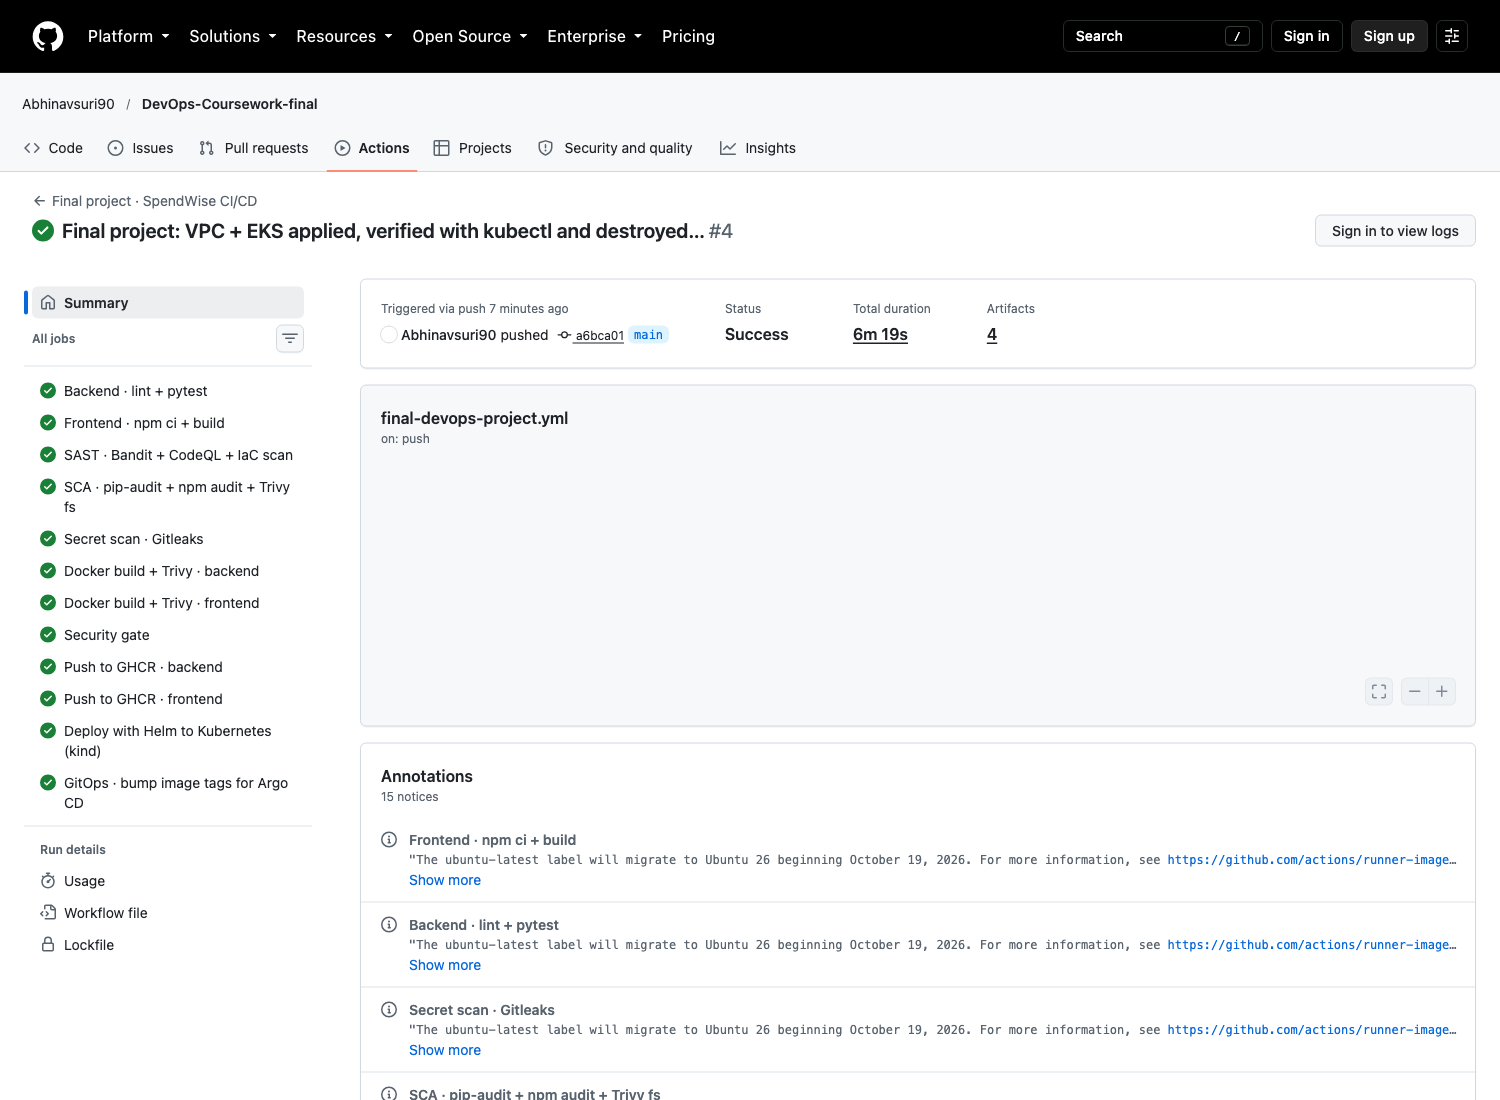
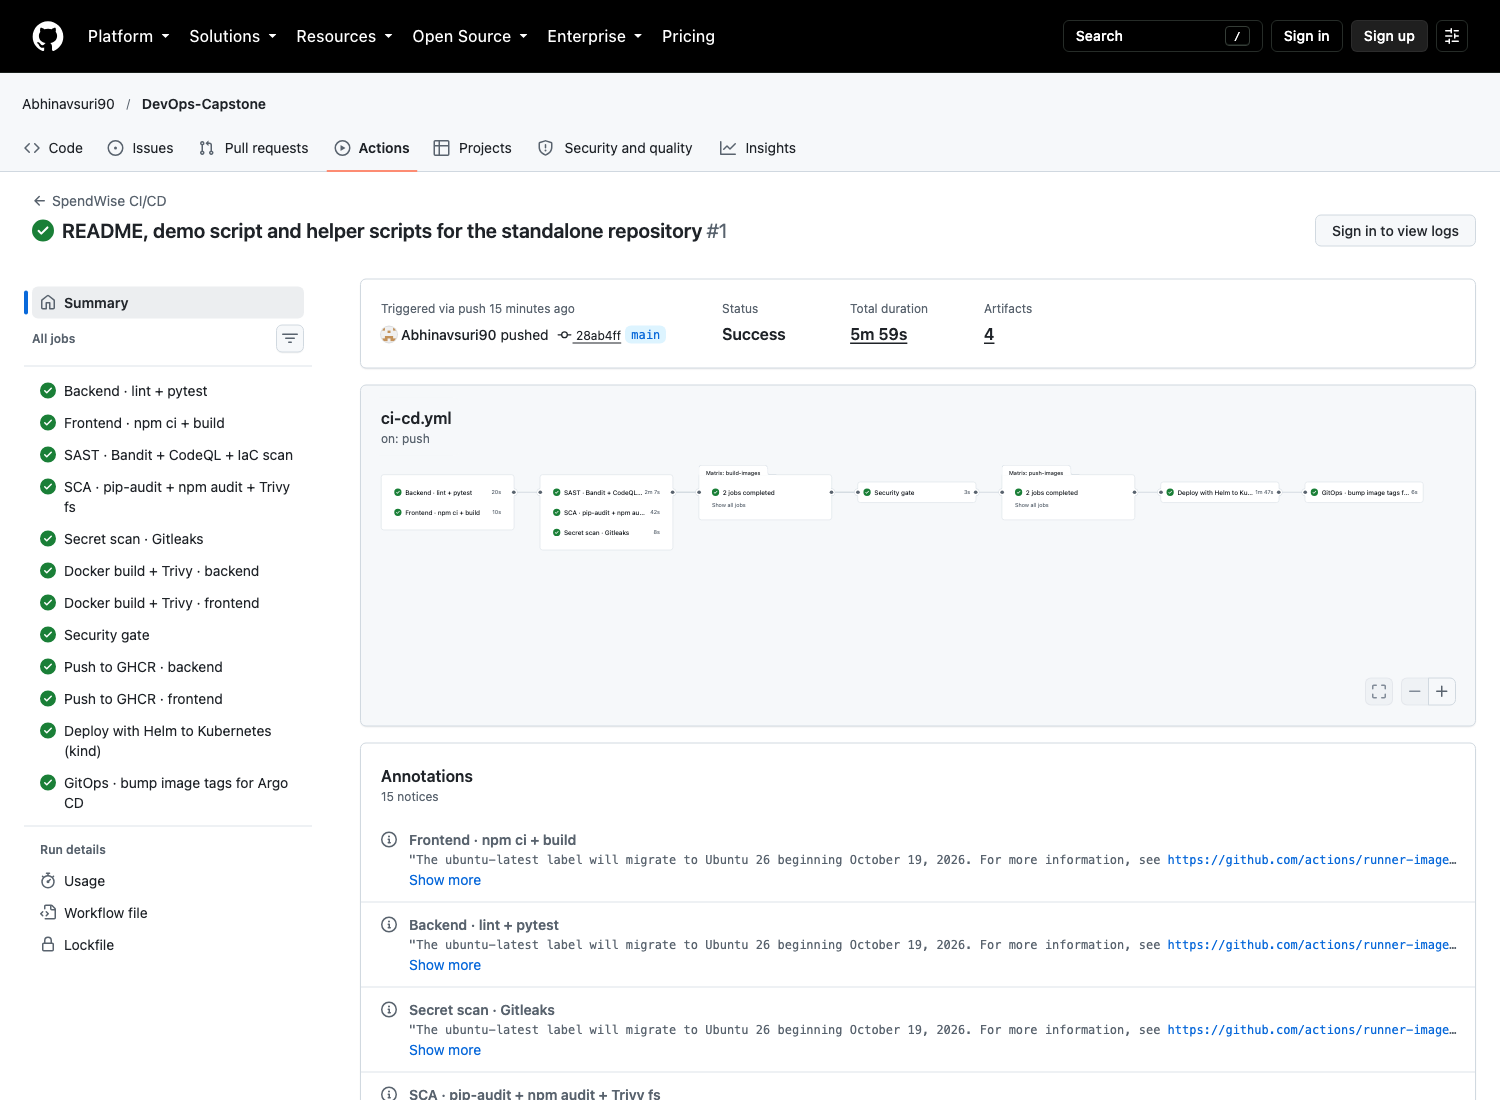
First green run in this repository, Argo CD follows it
Run 38867628237 (12 jobs, Trivy 0 HIGH/CRITICAL), GHCR tag 28ab4ffa0951, and
Argo CD Synced + Healthy on DevOps-Capstone with the data kept. Screenshots of
the run, the packages, the commit history and Argo CD.

diff --git a/README.md b/README.md
@@ -445,7 +445,7 @@ Images are tagged only with the **commit SHA**, never `latest`, so every running
 
 Every run is listed under [Actions → "SpendWise CI/CD"](https://github.com/Abhinavsuri90/DevOps-Capstone/actions/workflows/ci-cd.yml).
 
-**A green run.** [Run 38858988420](https://github.com/Abhinavsuri90/DevOps-Coursework-final/actions/runs/38858988420), on commit `a6bca01` (the first run after the move to the brief's folder layout), passed all 12 jobs in 6 min 19 s. Both image scans report 0 CRITICAL and 0 HIGH, and the GitOps job committed `gitops: deploy spendwise a6bca01bb2ce`, which Argo CD rolled out:
+**A green run.** [Run 38867628237](https://github.com/Abhinavsuri90/DevOps-Capstone/actions/runs/38867628237), the first run in this repository (commit `28ab4ff`), passed all 12 jobs in 5 min 59 s. Both image scans report 0 CRITICAL and 0 HIGH, and the GitOps job committed `gitops: deploy spendwise 28ab4ffa0951`, which Argo CD rolled out:
 
 ![Green pipeline run on GitHub Actions](screenshots/browser-11-github-actions-run.png)
 
@@ -641,6 +641,12 @@ Until now the namespace had been deployed by hand with Helm. For GitOps I handed
 
 ![Argo CD switched to the new repository](screenshots/26-argocd-new-repo.png)
 
+**The move to this repository** ([evidence/16-argocd-capstone-repo.txt](evidence/16-argocd-capstone-repo.txt)). The first pipeline run here pushed `ghcr.io/abhinavsuri90/devops-capstone/spendwise-*:28ab4ffa0951` and committed the tags. After `kubectl apply -f gitops/argocd-application.yaml`, Argo CD followed `DevOps-Capstone` at `helm/spendwise`, rolled out the new images (2/2 Pods each) and reported **Synced + Healthy** on the bot's commit `72a2d87`. The five expenses in the PVC were still there. For about a minute Argo CD showed the HPA as *Degraded*: its CPU metric read `<unknown>` until metrics-server had scraped the new Pods, and then it showed `35%/70%`.
+
+![Argo CD moves to the DevOps-Capstone repository](screenshots/35-argocd-capstone-repo.png)
+
+![Argo CD: spendwise Healthy and Synced to main (72a2d87) of DevOps-Capstone](screenshots/browser-16-argocd-capstone.png)
+
 ### Live demo (M10): commit → pipeline → deployment update (recorded)
 
 One commit, and everything after it is automatic. This was recorded in the coursework repository, before the move to this one, so the links go there ([evidence/11-m10-commit-to-deploy.txt](evidence/11-m10-commit-to-deploy.txt)):
@@ -755,6 +761,7 @@ These were not planted. They came up while building and running the project, and
 | 26 | [browser-15-github-trivy-annotations.png](screenshots/browser-15-github-trivy-annotations.png) | Trivy results of both images, published by the pipeline (M6) |
 | 27 | [browser-13-github-commits.png](screenshots/browser-13-github-commits.png) | Commit history (M3) |
 | 28 | [21](screenshots/21-gitops-handover.png) · [22](screenshots/22-argocd-deploys-spendwise.png) · [browser-10](screenshots/browser-10-argocd-spendwise.png) | GitOps handover to Argo CD, and the Argo CD application tree |
+| 28b | [35](screenshots/35-argocd-capstone-repo.png) · [browser-16](screenshots/browser-16-argocd-capstone.png) | Argo CD follows this repository: Synced + Healthy with the `devops-capstone` images |
 | 29 | [browser-09](screenshots/browser-09-gitops-before.png) · [browser-14](screenshots/browser-14-gitops-after.png) · [23](screenshots/23-m10-commit-to-deploy.png) | M10 live demo: before, after, and the whole chain in the terminal |
 | 30 | [24](screenshots/24-iac-scan-before.png) · [25](screenshots/25-iac-scan-after.png) | IaC scan of Terraform and the Helm chart, before and after the fixes |
 
